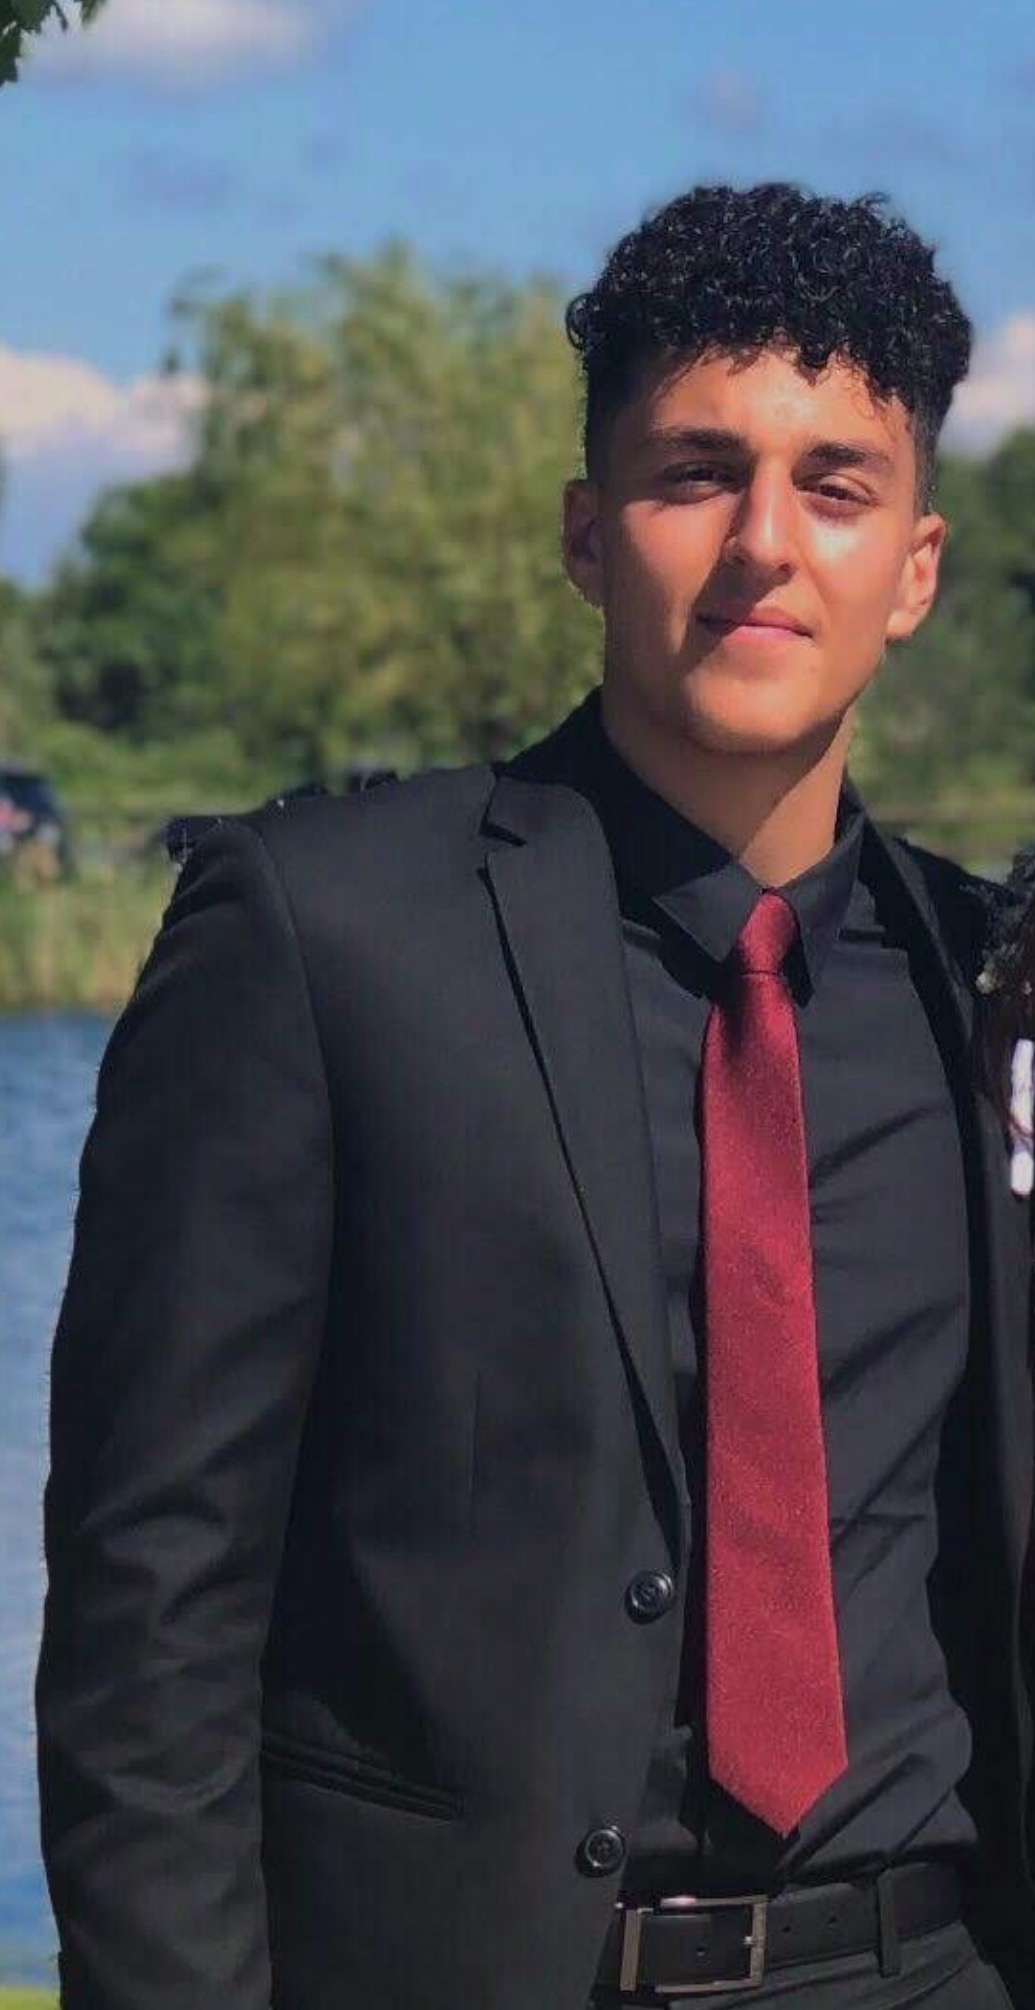
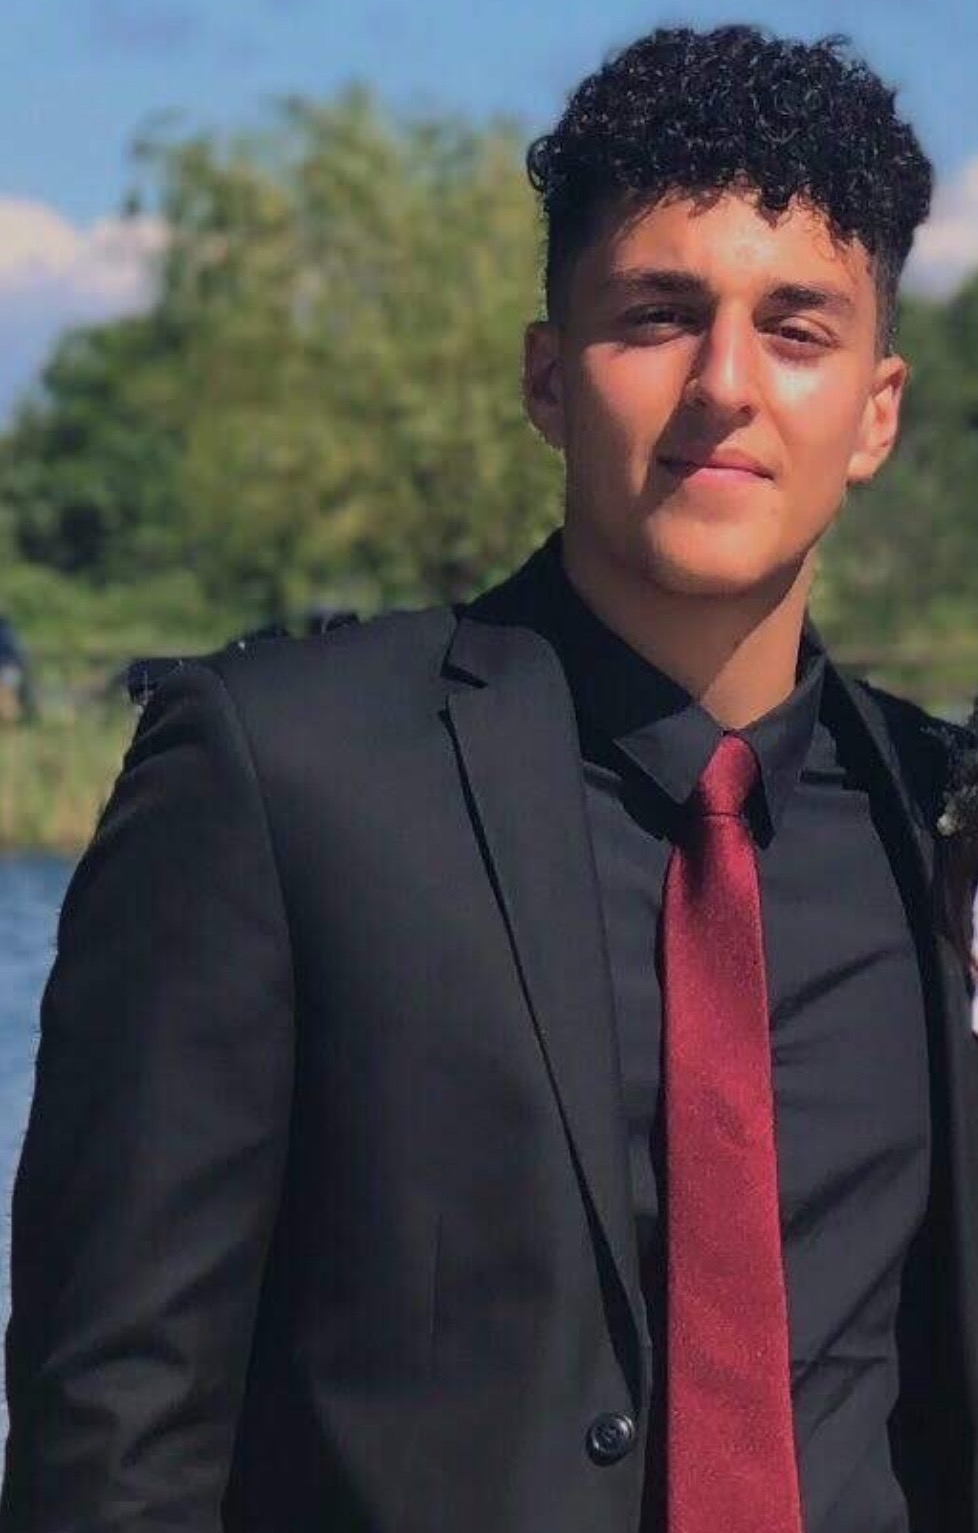
done added profiles

diff --git a/pages/index.tsx b/pages/index.tsx
@@ -324,24 +324,29 @@ const IndexPage = () => {
         {/* FIXME:FIXME: */}
         {/* FIXME:FIXME: */}
         {/*  */}
-        <Center id="marvy-and-kiro" justifyContent="center" w="100%">
+        <Center
+          id="marvy-and-kiro"
+          justifyContent="center"
+          w="100%"
+          // bg="blue"
+          p={10}
+        >
           <Box
             display={["block", "block", "block", "flex", "flex"]}
-            gridGap={["10%", "50%", "40%", "17.5%", "20%"]}
-            w={["100%", "90%", "80%", "75%", "75%"]}
-            p={10}
+            // gridGap={["0%", "0%", "0%", "17.5%", "20%"]}
+            w={["100%", "90%", "85%", "85%", "85%"]}
           >
             <Bounce left>
               <Flex
-                mt={["20%", "15%", "10%", "5%", "5%"]}
+                mt={["15%", "10%", "5%", "0%", "0%"]}
                 id="kiro-profile"
-                w="500px"
+                w="110%"
                 flexDir="column"
               >
-                <Box w="100%">
-                  <Image w="100%" h="100%" src={KiroDP.src} />
+                <Box>
+                  <Image fit="cover" src={KiroDP.src} />
                 </Box>
-                <Box w="100%" bg="gray.800" p={3}>
+                <Box bg="gray.800" p={5}>
                   <Flex>
                     <Heading
                       color="white"
@@ -369,17 +374,19 @@ const IndexPage = () => {
               </Flex>
             </Bounce>
             {/* FIXME:FIXME:FIXME:FIXME: */}
+            {/* FIXME:FIXME:FIXME:FIXME: */}
             <Bounce right>
               <Flex
-                mt={["20%", "15%", "10%", "5%", "5%"]}
+                mt={["15%", "10%", "5%", "0%", "0%"]}
                 id="marvy-profile"
-                w="500px"
+                ml="auto"
+                w="70%"
                 flexDir="column"
               >
-                <Box w="100%">
-                  <Image h="100%" fit="fill" w="100%" src={MarvyDP.src} />
+                <Box>
+                  <Image src={MarvyDP.src} />
                 </Box>
-                <Box bg="gray.800" w="100%" p={3}>
+                <Box bg="gray.800" w="100%" p={5}>
                   <Center>
                     <Heading
                       color="white"
